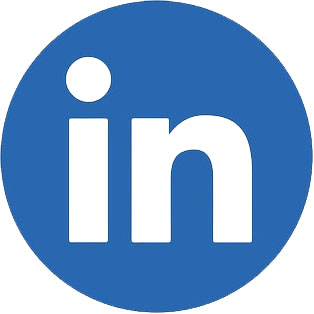
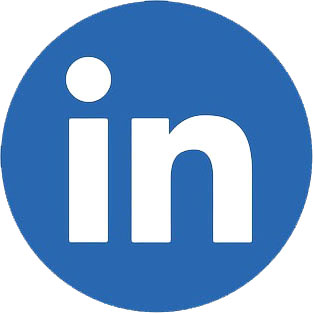
Atualização

diff --git a/index.html b/index.html
@@ -211,7 +211,7 @@
         </div>
         <div class="conjunto">
             <a href="https://wa.me/5511957280151" target="_blank"><img id="Imagem" src="assets/imgs/Whatsapp.png"></a>
-            <a href="https://www.linkedin.com/in/pedro-lima-40556523a/" target="_blank"><img id="Imagem" src="assets/imgs/Linkedin.jpg"></a>
+            <a href="https://www.linkedin.com/in/pedro-lima-40556523a/" target="_blank"><img id="Imagem" src="assets/imgs/Linkedin.png"></a>
             <a href="https://github.com/Pedro101520" target="_blank"><img id="Imagem" src="assets/imgs/git-hub.png"></a>
             <a href="mailto:pedrous700@gmail.com?subject=Oportunidade de emprego: Vaga para programador&body=Vi seu currículo e gostaria de conversar com você" target="_blank"><img id="Imagem" src="assets/imgs/email.png"></a>
         </div>
